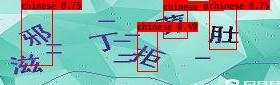
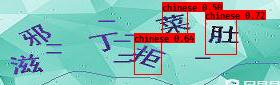
继续训练

diff --git a/train.py b/train.py
@@ -31,7 +31,7 @@ def train(model, annotation_path, input_shape, anchors, num_classes, log_dir='lo
     logging = TensorBoard(log_dir=log_dir)
     checkpoint = ModelCheckpoint(log_dir + "ep{epoch:03d}-loss{loss:.3f}-val_loss{val_loss:.3f}.h5",
         monitor='val_loss', save_weights_only=True, save_best_only=True, period=1)
-    batch_size = 10
+    batch_size = 15
     val_split = 0.1
     with open(annotation_path, encoding='UTF-8') as f:
         lines = f.readlines()
@@ -42,11 +42,11 @@ def train(model, annotation_path, input_shape, anchors, num_classes, log_dir='lo
 
 
     try :
-        #########2、修改epochs为25 ###########
+        #########2、修改epochs为30 ###########
         model.fit_generator(data_generator_wrap(lines[:num_train], batch_size, input_shape, anchors, num_classes),
             steps_per_epoch = max(1, num_train // batch_size),
             validation_data = data_generator_wrap(lines[num_train:], batch_size, input_shape, anchors, num_classes),
-            validation_steps = max(1, num_val // batch_size), epochs = 25, initial_epoch = 0)
+            validation_steps = max(1, num_val // batch_size), epochs = 30, initial_epoch = 0)
     except :
         print("error")
     finally:
